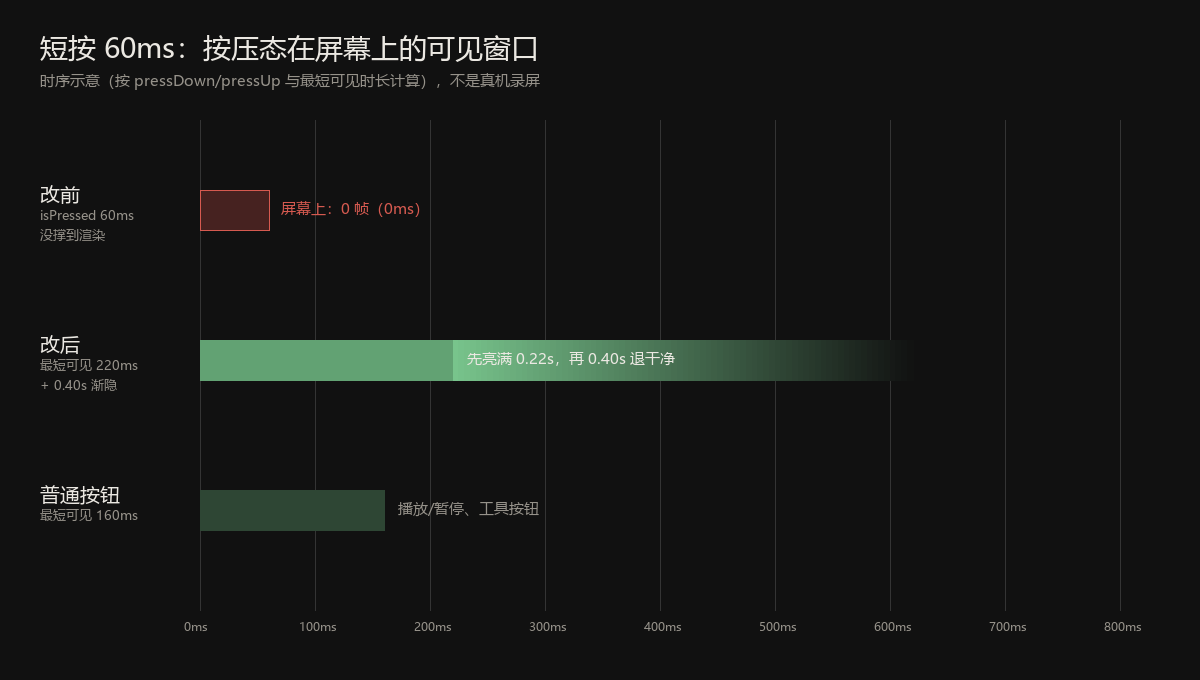
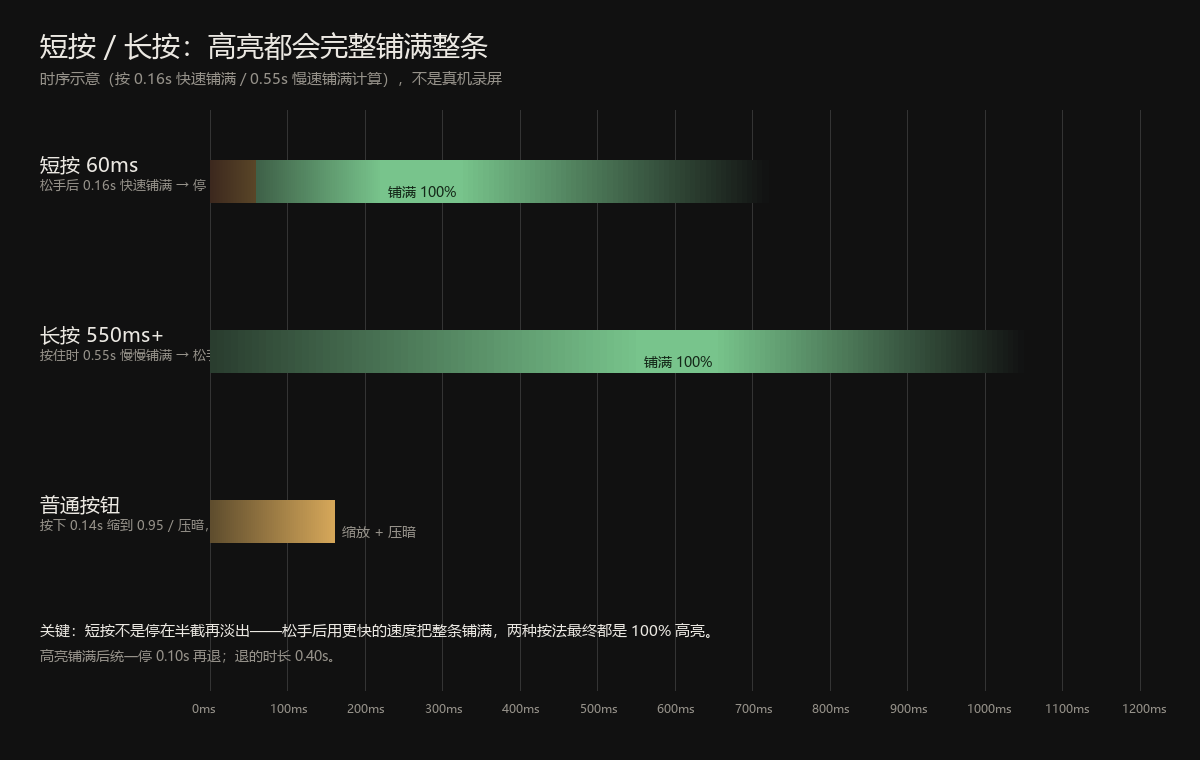
fix(ios): 短按也完整铺满整条高亮（短按 0.16s 快速、长按 0.55s 慢速）
- 老板澄清：短按也要跑完整条高亮动画，只是比长按快；r106 短按只铺到一半就淡出

- PressTiming.ripplePlan：elapsed<0.22s 松手时从当前进度换 0.16s 快速 RippleFill 铺满；>=0.22s 让 0.55s 慢速走完；铺满后停 0.10s 再 0.40s 渐隐

- RippleFill 支持 startProgress + duration，短按不会闪回 0；新增 12 条时序断言（709 → 721）

- 版本 2.4.10（188）

diff --git a/ios/JZMusicHelper/Views/Components.swift b/ios/JZMusicHelper/Views/Components.swift
@@ -584,7 +584,11 @@ struct RipplePressModifier: ViewModifier {
     @State private var pressID = 0
     @State private var glow: Double = 0
     @State private var pressedAt = Date()
-    /// 松手后的延迟淡出；下一次按下要能取消它，否则快速连点会被上一次的淡出拖暗
+    /// 短按松手时换一块"快速铺满"的 RippleFill，从当前进度接着长，不再从 0 重来
+    @State private var fastRestart = false
+    @State private var restartProgress: Double = 0
+    @State private var restartDuration: Double = PressTiming.fastRipple
+    /// 铺满后的延迟淡出；下一次按下要能取消它，否则快速连点会被上一次的淡出拖暗
     @State private var releaseTask: Task<Void, Never>?
 
     func body(content: Content) -> some View {
@@ -594,7 +598,9 @@ struct RipplePressModifier: ViewModifier {
                     if pressID > 0 {
                         RippleFill(origin: activeOrigin,
                                    size: geo.size,
-                                   color: Color.primary.opacity(highlight))
+                                   color: Color.primary.opacity(highlight),
+                                   startProgress: fastRestart ? restartProgress : 0,
+                                   duration: fastRestart ? restartDuration : PressTiming.slowRipple)
                             .id(pressID)
                             .opacity(glow)
                     }
@@ -624,16 +630,25 @@ struct RipplePressModifier: ViewModifier {
                 releaseTask?.cancel()
                 if pressed {
                     pressedAt = Date()
+                    fastRestart = false
+                    restartProgress = 0
                     activeOrigin = hasOrigin ? origin : nil
                     pressID += 1
                     glow = 1
                 } else {
-                    // 短按也要亮够 0.22s 再退；长按已经超过这个时长就只留 0.08s 的尾巴。
-                    let hold = max(0.08, PressTiming.holdAfterRelease(
-                        elapsed: Date().timeIntervalSince(pressedAt),
-                        minVisible: PressTiming.minVisibleRow))
+                    // 关键：短按也要**铺满整条**，只是比长按快——不是停在半截再淡出。
+                    // 短按：从当前进度换一块 0.16s 的快速高亮接着长满；
+                    // 长按：让 0.55s 的慢速高亮自己走完。
+                    let plan = PressTiming.ripplePlan(
+                        elapsed: Date().timeIntervalSince(pressedAt))
+                    if plan.restart {
+                        fastRestart = true
+                        restartProgress = plan.startProgress
+                        restartDuration = plan.duration
+                        pressID += 1
+                    }
                     releaseTask = Task { @MainActor in
-                        try? await Task.sleep(nanoseconds: UInt64(hold * 1_000_000_000))
+                        try? await Task.sleep(nanoseconds: UInt64(plan.waitBeforeFade * 1_000_000_000))
                         guard !Task.isCancelled else { return }
                         withAnimation(.easeOut(duration: 0.40)) { glow = 0 }
                     }
@@ -648,6 +663,9 @@ private struct RippleFill: View {
     let origin: CGPoint?
     let size: CGSize
     let color: Color
+    /// 从当前进度接着长（短按松手后快速铺满用）
+    let startProgress: Double
+    let duration: Double
 
     @Environment(\.accessibilityReduceMotion) private var reduceMotion
     @State private var expanded = false
@@ -657,17 +675,20 @@ private struct RippleFill: View {
         let dx = max(point.x, size.width - point.x)
         let dy = max(point.y, size.height - point.y)
         let radius = max(24, (dx * dx + dy * dy).squareRoot() * 1.02)
+        let p0 = min(max(startProgress, 0), 1)
+        let scale0 = 0.06 + 0.94 * p0
+        let opacity0 = 0.40 + 0.60 * p0
         return Circle()
             .fill(color)
             .frame(width: radius * 2, height: radius * 2)
             .position(point)
-            // 起点不是"全亮突然出现"：先是一颗 6% 大小、40% 亮度的亮斑，
-            // 0.50s 里一边长大一边变亮，看起来才是"按住之后慢慢亮、开始扩散"。
-            // 减弱动效：不做缩放/扩散，整块 0.20s 淡入，仍有可见反馈。
-            .scaleEffect(reduceMotion ? 1 : (expanded ? 1 : 0.06))
-            .opacity(reduceMotion ? (expanded ? 1 : 0) : (expanded ? 1 : 0.40))
+            // 起点不是"全亮突然出现"：先是一颗小亮斑，慢慢长大变亮。
+            // 短按松手时 startProgress 接上当前进度，用 0.16s 快速铺满；
+            // 长按用 0.55s 慢慢铺满。减弱动效：不缩放/扩散，整块 0.20s 淡入。
+            .scaleEffect(reduceMotion ? 1 : (expanded ? 1 : scale0))
+            .opacity(reduceMotion ? (expanded ? 1 : 0) : (expanded ? 1 : opacity0))
             .onAppear {
-                withAnimation(.easeInOut(duration: reduceMotion ? 0.20 : 0.50)) {
+                withAnimation(.easeInOut(duration: reduceMotion ? 0.20 : duration)) {
                     expanded = true
                 }
             }

diff --git a/ios/SelfTest/main.swift b/ios/SelfTest/main.swift
@@ -2623,8 +2623,10 @@ do {
 
 // MARK: - 按压反馈最短可见时长（PressTiming）
 //
-// 第三十七轮：老板真机"长按 OK、短按几乎没反馈"。短按的 isPressed 可能在同一帧
-// true→false，0.14s 的下压动画来不及起帧；这里把"补齐到最短可见时长"的算法钉死。
+// 第三十七轮：短按的 isPressed 可能同一帧 true→false，0.14s 下压动画来不及起帧；
+// 这里把"补齐到最短可见时长"的算法钉死。
+// 第三十八轮（老板：短按也要**完整铺满整条**高亮，只是比长按快）：
+// 补上 ripplePlan 的口径——短按松手后换 0.16s 快速高亮接着铺满，长按走 0.55s 慢速。
 
 section("按压反馈最短可见时长（PressTiming）")
 
@@ -2638,14 +2640,43 @@ do {
     check("刚按下：补满整个最短时长",
           PressTiming.holdAfterRelease(elapsed: 0,
                                        minVisible: PressTiming.minVisible) == PressTiming.minVisible)
-    check("列表行高亮的最短时长比普通按钮长",
-          PressTiming.minVisibleRow > PressTiming.minVisible,
-          "row=\(PressTiming.minVisibleRow) button=\(PressTiming.minVisible)")
+    check("短按阈值比普通按钮最短时长长",
+          PressTiming.quickTapThreshold > PressTiming.minVisible,
+          "threshold=\(PressTiming.quickTapThreshold) button=\(PressTiming.minVisible)")
     check("脏数据不产生负补时",
           PressTiming.holdAfterRelease(elapsed: Double.nan, minVisible: 0.16) == 0)
     check("比较常见的 80ms 快速点按也要补到 160ms",
           PressTiming.holdAfterRelease(elapsed: 0.08,
                                        minVisible: PressTiming.minVisible) > 0.07)
+
+    let quick = PressTiming.ripplePlan(elapsed: 0.06)
+    check("短按 60ms：松手后换 0.16s 快速高亮铺满",
+          quick.restart && abs(quick.duration - PressTiming.fastRipple) < 1e-9,
+          "\(quick)")
+    check("短按从当前进度接着长，不回到 0",
+          quick.startProgress > 0 && quick.startProgress < 0.1,
+          "start=\(quick.startProgress)")
+    check("短按也要等铺满 + 0.10s 再淡出",
+          abs(quick.waitBeforeFade
+              - (PressTiming.fastRipple + PressTiming.holdBeforeFade)) < 1e-9,
+          "wait=\(quick.waitBeforeFade)")
+
+    let medium = PressTiming.ripplePlan(elapsed: 0.30)
+    check("300ms 按：不重启，让慢速高亮自己走完",
+          !medium.restart
+            && abs(medium.waitBeforeFade
+                   - ((PressTiming.slowRipple - 0.30) + PressTiming.holdBeforeFade)) < 1e-9,
+          "\(medium)")
+
+    let long = PressTiming.ripplePlan(elapsed: 0.60)
+    check("600ms 长按：已经铺满，只等 0.10s",
+          !long.restart && long.waitBeforeFade == PressTiming.holdBeforeFade,
+          "\(long)")
+
+    let late = PressTiming.ripplePlan(elapsed: 0.20)
+    check("200ms 松手：从约 29% 进度快速铺满，不闪回",
+          late.restart && late.startProgress > 0.20 && late.startProgress < 0.40,
+          "start=\(late.startProgress)")
 }
 
 // MARK: - 汇总

diff --git a/ios/JZMusicHelper/Services/LayoutRules.swift b/ios/JZMusicHelper/Services/LayoutRules.swift
@@ -265,12 +265,56 @@ enum PressTiming {
     /// 普通按钮（播放/暂停、工具按钮）：最短可见 160ms
     static let minVisible: Double = 0.16
 
-    /// 列表行（高亮扩散）：最短可见 220ms，短按也看得到"亮斑铺开一点"
-    static let minVisibleRow: Double = 0.22
+    /// 列表行（高亮扩散）：按多久算"短按"——短于它就在松手时切到快速铺满
+    static let quickTapThreshold: Double = 0.22
 
-    /// 松手后还要补多久（秒），用于延迟回落；已经按够就返回 0
+    /// 短按：松手后 0.16s 把高亮快速铺满整条
+    static let fastRipple: Double = 0.16
+
+    /// 长按：按住时 0.55s 慢慢铺满
+    static let slowRipple: Double = 0.55
+
+    /// 高亮铺满后再停 0.10s 才开始退
+    static let holdBeforeFade: Double = 0.10
+
+    /// 松手后还要补多久（秒），用于普通按钮的延迟回落；已经按够就返回 0
     static func holdAfterRelease(elapsed: Double, minVisible: Double) -> Double {
         guard elapsed.isFinite, minVisible.isFinite, minVisible > 0 else { return 0 }
         return max(0, minVisible - max(0, elapsed))
+    }
+
+    /// 列表行高亮的"收尾计划"。
+    ///
+    /// 老板 2026-11-18 明确：**短按也要完整铺满整条**，只是比长按快。
+    /// - 短按（elapsed < 0.22）：松手瞬间从当前进度切到 0.16s 快速铺满；
+    /// - 长按：让 0.55s 的慢速扩散自己走完，再停 0.10s 退。
+    struct RipplePlan: Equatable {
+        /// 是否要换一块新的 RippleFill（从 startProgress 开始，用 duration 铺满）
+        let restart: Bool
+        let duration: Double
+        let startProgress: Double
+        /// 从松手到开始淡出要等多久
+        let waitBeforeFade: Double
+    }
+
+    static func smoothstep(_ x: Double) -> Double {
+        let v = min(max(x, 0), 1)
+        return v * v * (3 - 2 * v)
+    }
+
+    static func ripplePlan(elapsed: Double) -> RipplePlan {
+        let e = elapsed.isFinite ? max(0, elapsed) : 0
+        if e < quickTapThreshold {
+            let progress = smoothstep(e / slowRipple)
+            return RipplePlan(restart: true,
+                              duration: fastRipple,
+                              startProgress: progress,
+                              waitBeforeFade: fastRipple + holdBeforeFade)
+        }
+        let remaining = max(0, slowRipple - e)
+        return RipplePlan(restart: false,
+                          duration: remaining,
+                          startProgress: 0,
+                          waitBeforeFade: remaining + holdBeforeFade)
     }
 }

diff --git a/tools/ios/gen_press_timing_chart.py b/tools/ios/gen_press_timing_chart.py
@@ -1,7 +1,8 @@
 # -*- coding: utf-8 -*-
-"""画一张"短按 60ms 时按压态可见窗口"的时序示意图（非真机录屏）。
+"""画"短按 / 长按都会完整铺满整条高亮"的时序示意图（非真机录屏）。
 
-用途：给老板解释第三十七轮的最短可见时长修复；不是 App 截图。
+用途：给老板解释第三十八轮：短按不是只亮一半，而是在松手后用 0.16s 快速铺满；
+长按用 0.55s 慢慢铺满。
 """
 from pathlib import Path
 
@@ -10,14 +11,13 @@ from PIL import Image, ImageDraw, ImageFont
 ROOT = Path(__file__).resolve().parents[2]
 OUT = ROOT / "docs/ios/mockups/press-timing.png"
 
-W, H = 1200, 680
+W, H = 1200, 760
 BG = (17, 17, 17)
 FG = (235, 232, 226)
 SUB = (150, 146, 138)
-RED = (214, 90, 80)
 GREEN = (120, 196, 140)
+AMBER = (214, 168, 90)
 GRID = (52, 52, 52)
-
 FONT = "C:/Windows/Fonts/msyh.ttc"
 
 
@@ -29,56 +29,66 @@ def font(size: int) -> ImageFont.FreeTypeFont:
 
 
 def lerp(c1, c2, t):
+    t = min(max(t, 0), 1)
     return tuple(int(a + (b - a) * t) for a, b in zip(c1, c2))
 
 
 img = Image.new("RGB", (W, H), BG)
 d = ImageDraw.Draw(img)
 
-d.text((40, 28), "短按 60ms：按压态在屏幕上的可见窗口", font=font(28), fill=FG)
-d.text((40, 70), "时序示意（按 pressDown/pressUp 与最短可见时长计算），不是真机录屏",
+d.text((40, 26), "短按 / 长按：高亮都会完整铺满整条", font=font(28), fill=FG)
+d.text((40, 68), "时序示意（按 0.16s 快速铺满 / 0.55s 慢速铺满计算），不是真机录屏",
        font=font(15), fill=SUB)
 
-x0, x1 = 200, 1120
-ms_to_x = lambda ms: x0 + (x1 - x0) * (ms / 800.0)
+x0, x1 = 210, 1140
+TOTAL = 1200
+ms_to_x = lambda ms: x0 + (x1 - x0) * (ms / TOTAL)
 
-# 时间轴
-for ms in range(0, 801, 100):
+for ms in range(0, TOTAL + 1, 100):
     x = ms_to_x(ms)
-    d.line((x, 120, x, 610), fill=GRID, width=1)
-    d.text((x - 16, 618), f"{ms}ms", font=font(12), fill=SUB)
+    d.line((x, 110, x, 690), fill=GRID, width=1)
+    d.text((x - 18, 700), f"{ms}ms", font=font(12), fill=SUB)
 
-# 改前
-y = 180
-d.text((40, y), "改前", font=font(20), fill=FG)
-d.text((40, y + 26), "isPressed 60ms", font=font(13), fill=SUB)
-d.text((40, y + 46), "没撑到渲染", font=font(13), fill=SUB)
-d.rectangle((ms_to_x(0), y + 10, ms_to_x(60), y + 50), fill=(70, 34, 32),
-            outline=RED, width=1)
-d.text((ms_to_x(70), y + 18), "屏幕上：0 帧（0ms）", font=font(15), fill=RED)
 
-# 改后：列表行 220ms 可见 + 400ms 渐隐
-y = 330
-d.text((40, y), "改后", font=font(20), fill=FG)
-d.text((40, y + 26), "最短可见 220ms", font=font(13), fill=SUB)
-d.text((40, y + 46), "+ 0.40s 渐隐", font=font(13), fill=SUB)
-d.rectangle((ms_to_x(0), y + 10, ms_to_x(220), y + 50), fill=lerp(GREEN, (35, 60, 42), 0.25))
-fade_end = 220 + 400
-steps = 80
-for i in range(steps):
-    a = 220 + (fade_end - 220) * i / steps
-    b = 220 + (fade_end - 220) * (i + 1) / steps
-    t = i / steps
-    col = lerp(GREEN, BG, t)
-    d.rectangle((ms_to_x(a), y + 10, ms_to_x(b), y + 50), fill=col)
-d.text((ms_to_x(232), y + 18), "先亮满 0.22s，再 0.40s 退干净", font=font(15), fill=FG)
+def band(y, segments, label, note):
+    d.text((40, y), label, font=font(20), fill=FG)
+    d.text((40, y + 26), note, font=font(13), fill=SUB)
+    for start, end, color_from, color_to in segments:
+        steps = 60
+        for i in range(steps):
+            a = start + (end - start) * i / steps
+            b = start + (end - start) * (i + 1) / steps
+            d.rectangle((ms_to_x(a), y + 10, ms_to_x(b), y + 52),
+                        fill=lerp(color_from, color_to, i / steps))
+
+
+# 短按：0-60 亮斑；60-220 快速铺满；220-320 停；320-720 退
+band(150, [
+    (0, 60, (60, 40, 30), (90, 70, 40)),
+    (60, 220, lerp(GREEN, BG, 0.55), GREEN),
+    (220, 320, GREEN, GREEN),
+    (320, 720, GREEN, BG),
+], "短按 60ms", "松手后 0.16s 快速铺满 → 停 0.10s → 0.40s 退")
+d.text((ms_to_x(230), 182), "铺满 100%", font=font(14), fill=(20, 40, 24))
+
+# 长按：0-550 慢速铺满；550-650 停；650-1050 退
+band(320, [
+    (0, 550, lerp(GREEN, BG, 0.75), GREEN),
+    (550, 650, GREEN, GREEN),
+    (650, 1050, GREEN, BG),
+], "长按 550ms+", "按住时 0.55s 慢慢铺满 → 松手后停 0.10s → 0.40s 退")
+d.text((ms_to_x(560), 352), "铺满 100%", font=font(14), fill=(20, 40, 24))
 
 # 普通按钮
-y = 480
-d.text((40, y), "普通按钮", font=font(20), fill=FG)
-d.text((40, y + 26), "最短可见 160ms", font=font(13), fill=SUB)
-d.rectangle((ms_to_x(0), y + 10, ms_to_x(160), y + 50), fill=(46, 70, 52))
-d.text((ms_to_x(172), y + 18), "播放/暂停、工具按钮", font=font(15), fill=SUB)
+band(490, [
+    (0, 160, lerp(AMBER, BG, 0.6), AMBER),
+], "普通按钮", "按下 0.14s 缩到 0.95 / 压暗，最短可见 160ms")
+d.text((ms_to_x(170), 522), "缩放 + 压暗", font=font(14), fill=SUB)
+
+# 说明
+d.text((40, 620), "关键：短按不是停在半截再淡出——松手后用更快的速度把整条铺满，"
+                  "两种按法最终都是 100% 高亮。", font=font(15), fill=FG)
+d.text((40, 646), "高亮铺满后统一停 0.10s 再退；退的时长 0.40s。", font=font(14), fill=SUB)
 
 img.save(OUT, "PNG")
 print(OUT)

diff --git a/docs/ios/IOS-UI-DESIGN.md b/docs/ios/IOS-UI-DESIGN.md
@@ -182,7 +182,7 @@
 | 歌词行推进 | `.spring(response: 0.38, dampingFraction: 0.92)` 位移 + 当前行字重/色过渡 | 380ms |
 | 逐字染色 | `linear(duration: 0.14)` 单字推进（跟随每字 start/end） | 140ms |
 | 收藏心跳 | `.bouncy(duration: 0.26)`，scale 1 → 1.16 → 1；图标 `replace` + `bounce` | 260ms |
-| 按压反馈（全局） | 按下 scale 0.95 / 压暗 0.78；普通按钮/列表行都有**最短可见时长**（160ms / 220ms，`PressTiming`），短按也一定亮够；列表行 30% 亮色从落点 0.50s 慢慢扩散铺满、松手 0.40s 渐隐；`ScrollTouchFix` 关掉所在 UIScrollView 的 `delaysContentTouches`，按下当帧进 `isPressed`；减小动效时不做缩放/扩散、改用压暗/整块淡入；普通点击不给触觉 | 最短 160/220ms，渐隐 0.40s |
+| 按压反馈（全局） | 按下 scale 0.95 / 压暗 0.78；普通按钮最短可见 160ms；列表行 **短按松手后 0.16s 快速铺满整条、长按按住时 0.55s 慢慢铺满**（两种都到 100%），铺满后停 0.10s 再 0.40s 渐隐；`ScrollTouchFix` 关掉所在 UIScrollView 的 `delaysContentTouches`；减小动效改用压暗/整块淡入；普通点击不给触觉 | 短按 0.16s / 长按 0.55s 铺满 + 0.40s 渐隐 |
 | 下载完成 | 行内进度区收起 + `.snappy` 图标切换 | 260ms |
 | 列表增删 | 系统 `List` 默认动画，不自定义 | — |
 | 无源自动跳歌 | 无炫技：顶部内联提示条滑入 200ms，2s 后淡出 | 200ms |

diff --git a/CHANGELOG.md b/CHANGELOG.md
@@ -1,3 +1,26 @@
+## iOS 第三十八轮 · 2026-11-18 22:xx（短按也要完整铺满高亮，只是更快）
+
+**来源：老板澄清**：
+
+> "无论是长按还是点按，都要完整显示高亮，而不是像现在录屏里点按只是显示长按的一部分。
+> 点按之后预期是整个歌曲条目都显示高亮，动画跟长按一样，只不过短按扩散得更快、长按更慢。"
+
+**问题**：r106 只保证了"短按亮一下"，短按松手时高亮只铺到一半就淡出——不是完整动画。
+
+**修法**
+
+- `PressTiming` 新增 `ripplePlan(elapsed:)`：
+  - **短按**（<0.22s）：松手瞬间从当前进度换一块 **0.16s** 的快速高亮，把整条铺满；
+  - **长按**：让 **0.55s** 的慢速高亮自己走完；
+  - 两种都铺满 100% 后，统一停 0.10s 再 0.40s 渐隐。
+- `RippleFill` 支持 `startProgress` + `duration`：短按从当前进度接着长，不会闪回 0 重来。
+- 普通按钮仍是最短可见 160ms + 缩放/压暗（短按也完整显示按下态）。
+
+**验证**：本机时序断言 11/11；typecheck 0、26 个 Views 解析通过；
+CI #（待补）/ 721 条断言全绿；IPA `JZ-Music-v2.4.10-（待补）-r107-ios-unsigned.ipa` 已发群。
+
+版本 2.4.10（188）。
+
 ## iOS 第三十七轮 · 2026-11-18 22:xx（短按也必须有反馈：最短可见时长 + 关掉 ScrollView 延迟触摸）
 
 **来源：管家转发老板真机反馈（21:24 录屏）**
